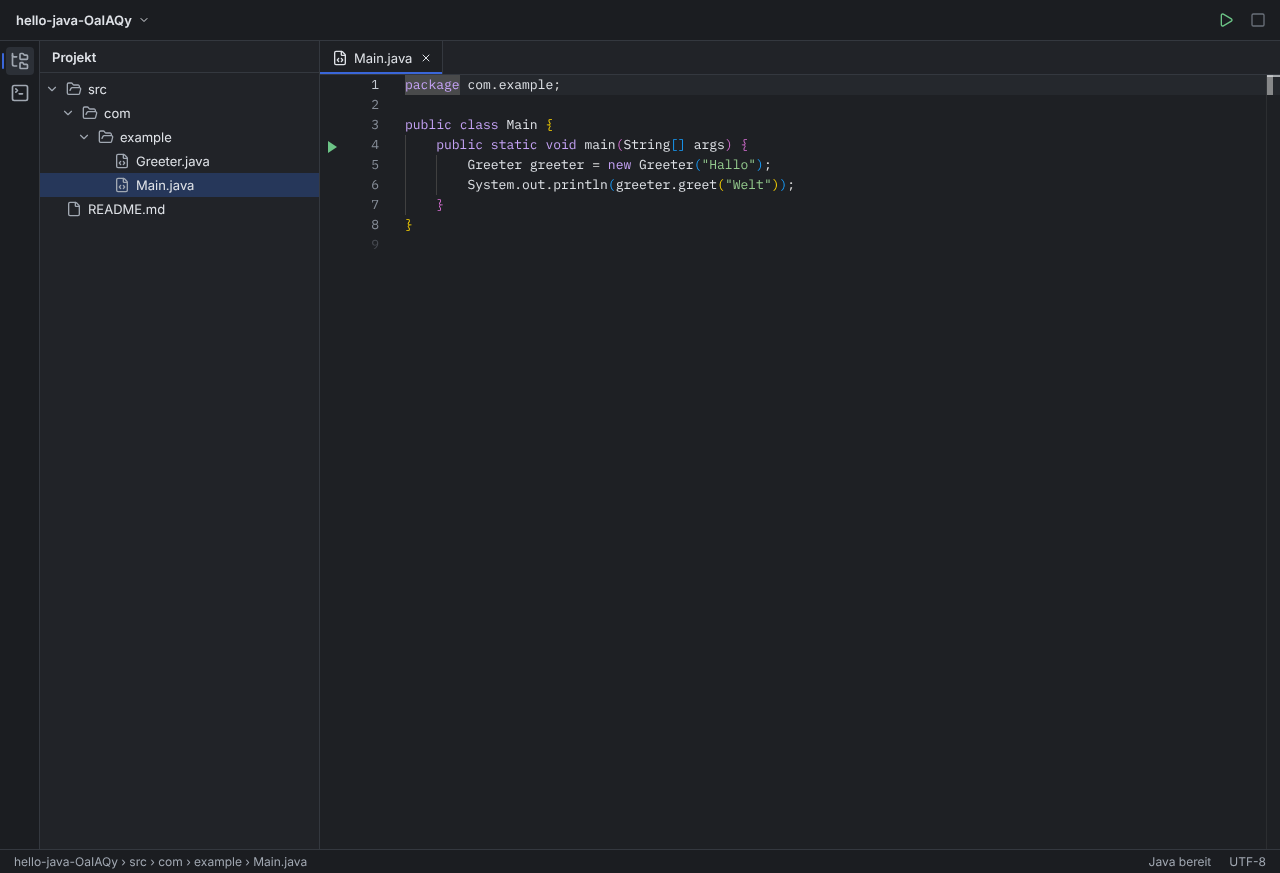
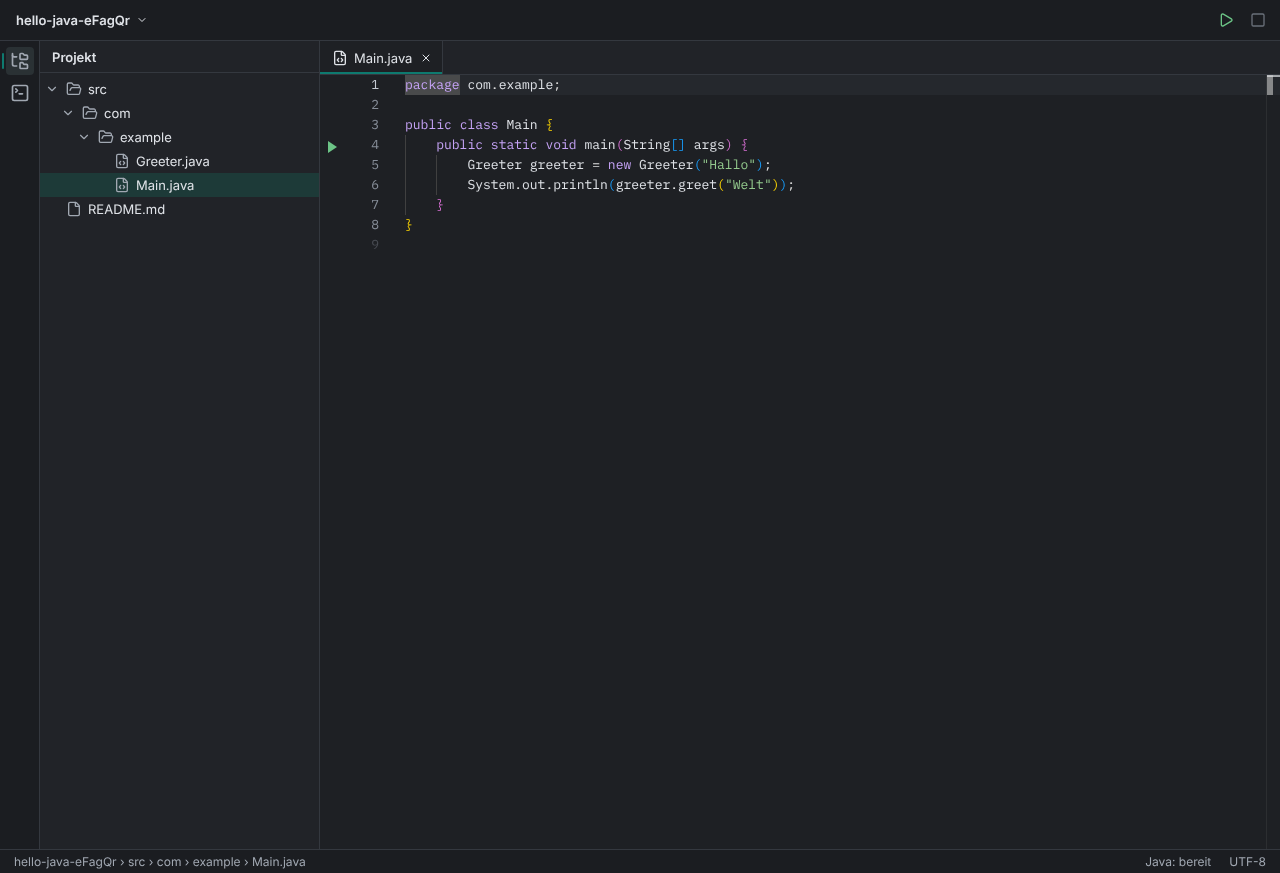
test: end orphaned language servers after a forced e2e close; BUG-012 is intermittent
Full suite after the rebrand: 21 pass + 1 todo (F04-E1 cleanup fixed),
unit 18/18.

Claude-Session: https://claude.ai/code/session_01UQ1o6d1zkf6NXbDU7id4Nz

Changed region(s): [[0.0312, 0.1856, 0.25, 0.2474], [0.0625, 0.9588, 0.25, 1.0], [0.0625, 0.0, 0.0938, 0.0309]]

diff --git a/replica/bugs.md b/replica/bugs.md
@@ -172,6 +172,7 @@ Steps
 
 Expected: error squiggle and counter. Actual: "Java bereit", but no diagnostics for the file, ever.
 Evidence: test `F01-E2b` (marked `todo` until fixed); captured `publishDiagnostics` only for the invisible project folder, none for Main.java; JDT LS log: `begin problem for /Main.java` (file treated as a loose file, not as part of the project).
+Intermittent: in the full run after the rebrand (2026-11-04, `d7c71c2`) `F01-E2b` passed once; in every earlier run it failed. That fits the timing suspicion below.
 What is known: a standalone LSP client that opens the same file with the same percent-encoded URI 8 s after `initialized` does get diagnostics (published with the URI in JDT's own form, `ü` unencoded). Suspected: the file is opened while JDT LS is still creating the invisible project, and with this path it is not re-attached afterwards. Not confirmed.
 Status: open
 
